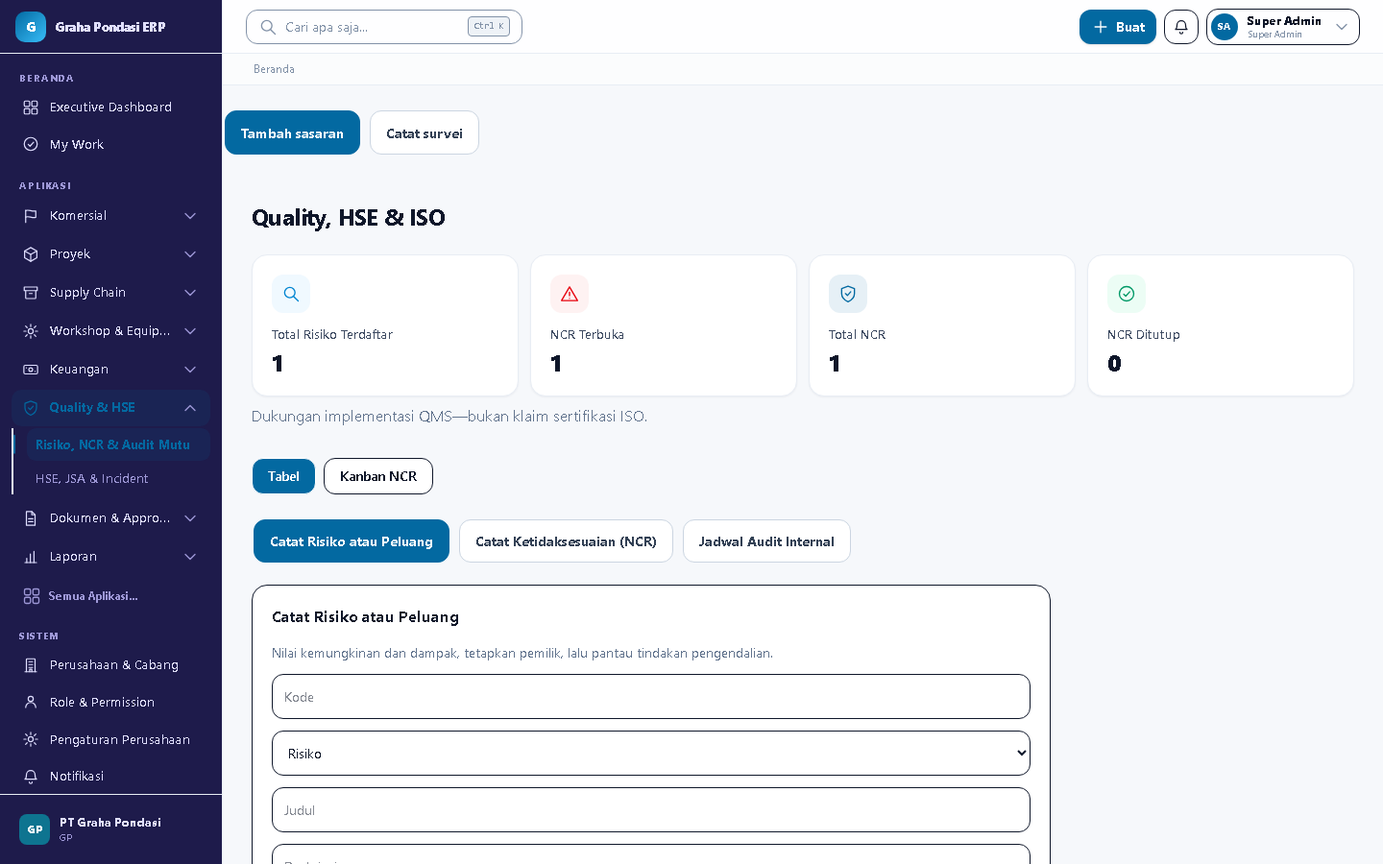
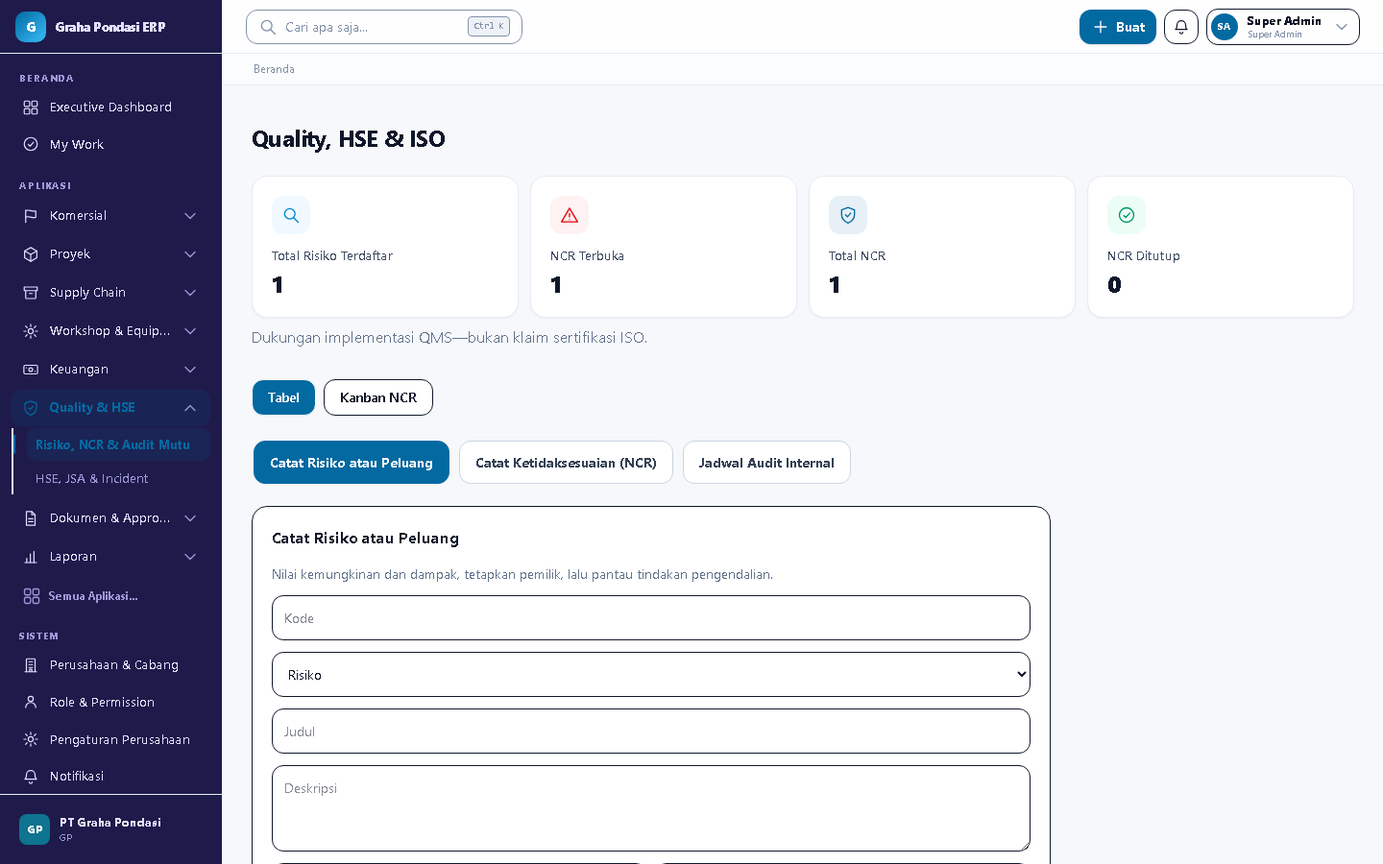
feat(ui-v3-wave1): legacy detector (ui:audit-legacy) + migration matrix + finance GL drawers (accounts/journals/periods/mappings/forecast) — form permanen ke drawer, endpoint tetap

diff --git a/resources/js/app.js b/resources/js/app.js
@@ -33,7 +33,7 @@ const uiCopy={
 'Risk & Opportunity':['Catat Risiko atau Peluang','Nilai kemungkinan dan dampak, tetapkan pemilik, lalu pantau tindakan pengendalian.'],
 'Nonconformity (NCR)':['Catat Ketidaksesuaian (NCR)','Rekam hasil yang tidak memenuhi persyaratan agar containment dan tindakan korektif dapat dikendalikan.']};
 document.querySelectorAll('h1,h2').forEach((heading)=>{const key=heading.textContent.trim();const copy=uiCopy[key];if(!copy)return;heading.textContent=copy[0];if(copy[1]&&!heading.nextElementSibling?.classList.contains('ui-purpose')){const purpose=document.createElement('p');purpose.className='ui-purpose mt-1 text-sm text-slate-500';purpose.textContent=copy[1];heading.after(purpose)}});
-document.querySelectorAll('main div').forEach((workspace)=>{const forms=[...workspace.children].filter((element)=>element.tagName==='FORM'&&!element.closest('.nav-details'));if(forms.length<2)return;workspace.classList.add('workspace-tools');const toolbar=document.createElement('div');toolbar.className='workspace-toolbar no-print';forms.forEach((form,index)=>{form.classList.add('workspace-tool-panel');form.hidden=true;const button=document.createElement('button');button.type='button';button.className='workspace-tool-button';button.textContent=form.querySelector('h2')?.textContent?.trim()||form.querySelector('button')?.textContent?.trim()||`Aksi ${index+1}`;button.addEventListener('click',(ev)=>{const willOpen=form.hidden;forms.forEach((item)=>{item.hidden=true});toolbar.querySelectorAll('button').forEach((item)=>item.classList.remove('active'));if(willOpen){form.hidden=false;button.classList.add('active');if(ev.isTrusted)form.scrollIntoView({behavior:'smooth',block:'nearest'})}});toolbar.append(button)});toolbar.querySelector('button')?.click();workspace.before(toolbar)});
+document.querySelectorAll('main div').forEach((workspace)=>{const forms=[...workspace.children].filter((element)=>element.tagName==='FORM'&&!element.closest('.nav-details'));if(forms.length<2)return;workspace.classList.add('workspace-tools');const toolbar=document.createElement('div');toolbar.className='workspace-toolbar no-print';forms.forEach((form,index)=>{form.classList.add('workspace-tool-panel');form.hidden=true;const button=document.createElement('button');button.type='button';button.className='workspace-tool-button';button.textContent=form.querySelector('h2')?.textContent?.trim()||form.querySelector('button')?.textContent?.trim()||`Aksi ${index+1}`;button.addEventListener('click',(ev)=>{const willOpen=form.hidden;forms.forEach((item)=>{item.hidden=true});toolbar.querySelectorAll('button').forEach((item)=>item.classList.remove('active'));if(willOpen){form.hidden=false;button.classList.add('active');if(ev.isTrusted)form.scrollIntoView({behavior:'smooth',block:'nearest'})}});toolbar.append(button)});toolbar.querySelector('button')?.click();forms[0]?.before(toolbar)});
 document.querySelectorAll('details.nav-group').forEach((d)=>{const k='navgrp:'+(d.dataset.group||'');if(localStorage.getItem(k)==='0')d.open=false;d.addEventListener('toggle',()=>localStorage.setItem(k,d.open?'1':'0'))});
 
 // ===== Adaptive Workspace Navigation (accordion): buka satu workspace menutup lainnya =====

diff --git a/resources/views/finance/journals.blade.php b/resources/views/finance/journals.blade.php
@@ -1,3 +1,7 @@
 <x-layouts.app title="General Ledger"><div class="page-container"><a href="/admin/finance" class="text-sm font-bold text-[var(--brand-primary)]">← Finance Workspace</a><x-ui.page-header title="General Ledger" /><p class="mt-2 text-slate-500">Jurnal posted bersifat immutable dan selalu seimbang.</p>@if(session('status'))<div class="mt-4 rounded-xl bg-emerald-50 p-4">{{ session('status') }}</div>@endif @if($errors->any())<div class="mt-4 rounded-xl bg-red-50 p-4 text-red-700">{{ $errors->first() }}</div>@endif
-@if(auth()->user()->hasPermission('accounting.post',app(\App\Support\Tenancy\CurrentCompany::class)->id()))<details class="mt-6 rounded-2xl border bg-white p-5"><summary class="cursor-pointer font-black">Buat Jurnal Manual</summary><form method="post" action="/admin/finance/journals" class="mt-5 grid gap-3 md:grid-cols-3">@csrf<input type="date" name="journal_date" value="{{ now()->toDateString() }}" required class="rounded-xl border p-3"><input name="reference" placeholder="Referensi unik" required class="rounded-xl border p-3"><input name="description" placeholder="Deskripsi" required class="rounded-xl border p-3"><select name="debit_account_id" required class="rounded-xl border p-3"><option value="">Akun debit</option>@foreach($accounts as $a)<option value="{{ $a->id }}">{{ $a->code }} — {{ $a->name }}</option>@endforeach</select><select name="credit_account_id" required class="rounded-xl border p-3"><option value="">Akun kredit</option>@foreach($accounts as $a)<option value="{{ $a->id }}">{{ $a->code }} — {{ $a->name }}</option>@endforeach</select><input type="number" step=".01" min=".01" name="amount" placeholder="Nominal" required class="rounded-xl border p-3"><button class="rounded-xl bg-[var(--brand-primary)] p-3 font-bold text-white md:col-start-3">Post jurnal</button></form></details>@endif
+@if(auth()->user()->hasPermission('accounting.post',app(\App\Support\Tenancy\CurrentCompany::class)->id()))<details class="mt-6 rounded-2xl border bg-white p-5"><summary class="cursor-pointer font-black">Buat Jurnal Manual</summary><div class="mb-4 flex justify-end no-print"><button type="button" class="btn-brand inline-flex min-h-[42px] items-center gap-2 rounded-xl px-4 text-sm font-bold shadow-sm" data-drawer-open="journal-create-drawer</button></div>
+<x-ui.drawer id="{journal-create-drawer}" title="{Jurnal Manual}">
+<form method="post" action="/admin/finance/journals" class="grid gap-4">@csrf<input type="date" name="journal_date" value="{{ now()->toDateString() }}" required class="rounded-xl border p-3"><input name="reference" placeholder="Referensi unik" required class="rounded-xl border p-3"><input name="description" placeholder="Deskripsi" required class="rounded-xl border p-3"><select name="debit_account_id" required class="rounded-xl border p-3"><option value="">Akun debit</option>@foreach($accounts as $a)<option value="{{ $a->id }}">{{ $a->code }} — {{ $a->name }}</option>@endforeach</select><select name="credit_account_id" required class="rounded-xl border p-3"><option value="">Akun kredit</option>@foreach($accounts as $a)<option value="{{ $a->id }}">{{ $a->code }} — {{ $a->name }}</option>@endforeach</select><input type="number" step=".01" min=".01" name="amount" placeholder="Nominal" required class="rounded-xl border p-3"><button class="rounded-xl bg-[var(--brand-primary)] p-3 font-bold text-white md:col-start-3">Post jurnal</button></form>
+</x-ui.drawer>
+</details>@endif
 <div class="mt-6 overflow-x-auto rounded-2xl border bg-white"><table class="w-full min-w-[760px] text-sm"><thead><tr><th>Nomor</th><th>Tanggal</th><th>Deskripsi</th><th>Debit</th><th>Kredit</th><th>Status</th></tr></thead><tbody>@forelse($journals as $j)<tr><td class="font-mono font-bold">{{ $j->number }}</td><td>{{ $j->journal_date->format('d/m/Y') }}</td><td>{{ $j->description }}</td><td>{{ number_format((float)$j->entries->sum('debit'),2,',','.') }}</td><td>{{ number_format((float)$j->entries->sum('credit'),2,',','.') }}</td><td>{{ strtoupper($j->status) }}</td></tr>@empty<tr><td colspan="6" class="p-10 text-center">Belum ada jurnal.</td></tr>@endforelse</tbody></table></div><div class="mt-4">{{ $journals->links() }}</div></div></x-layouts.app>

diff --git a/resources/views/project-costing/index.blade.php b/resources/views/project-costing/index.blade.php
@@ -1,3 +1,8 @@
 <x-layouts.app title="Project Costing & EAC"><div class="page-container"><x-ui.page-header title="Project Costing & EAC" /><p class="mt-2 text-slate-500">Actual dari ledger jurnal, committed dari PO aktif, dan forecast tersimpan sebagai snapshot.</p>@if(session('status'))<div class="mt-4 rounded-xl bg-emerald-50 p-4">{{ session('status') }}</div>@endif @if($errors->any())<div class="mt-4 rounded-xl bg-red-50 p-4 text-red-700">{{ $errors->first() }}</div>@endif
-@if(auth()->user()->hasPermission('finance.manage',app(\App\Support\Tenancy\CurrentCompany::class)->id()))<form method="post" action="/admin/project-costing/forecasts" class="mt-6 grid gap-3 rounded-2xl border bg-white p-5 lg:grid-cols-5">@csrf<select name="project_id" required class="rounded-xl border p-3">@foreach($projects as $project)<option value="{{ $project->id }}">{{ $project->code }} — {{ $project->name }}</option>@endforeach</select><input type="date" name="forecast_date" value="{{ today()->toDateString() }}" required class="rounded-xl border p-3"><input type="number" step=".01" min="0" name="cost_to_complete" required placeholder="Cost to complete" class="rounded-xl border p-3"><input name="basis" placeholder="Dasar estimasi/revisi" class="rounded-xl border p-3"><input type="hidden" name="idempotency_key" value="forecast-{{ Str::uuid() }}"><button class="rounded-xl bg-[var(--brand-primary)] p-3 text-white">Simpan forecast</button></form>@endif
-<div class="mt-8 overflow-x-auto rounded-2xl border bg-white"><table class="w-full min-w-[1050px] text-sm"><thead><tr><th>Proyek</th><th>Budget/RAP</th><th>Actual</th><th>Committed PO</th><th>Cost to Complete</th><th>EAC</th><th>Variance</th><th>Contract</th></tr></thead><tbody>@forelse($projects as $project)@php($s=$summaries[$project->id])<tr><td><strong>{{ $project->code }}</strong><br>{{ $project->name }}</td>@foreach(['budget','actual','committed','cost_to_complete','eac','variance','contract_value'] as $key)<td class="font-mono">{{ number_format((float)$s[$key],2,',','.') }}</td>@endforeach</tr>@empty<tr><td colspan="8" class="p-8 text-center">Belum ada proyek.</td></tr>@endforelse</tbody></table></div></div></x-layouts.app>
+@if(auth()->user()->hasPermission('finance.manage',app(\App\Support\Tenancy\CurrentCompany::class)->id()))<div class="mb-4 flex justify-end no-print"><button type="button" class="btn-brand inline-flex min-h-[42px] items-center gap-2 rounded-xl px-4 text-sm font-bold shadow-sm" data-drawer-open="forecast-create-drawer</button></div>
+
+@endif
+<div class="mt-8 overflow-x-auto rounded-2xl border bg-white"><table class="w-full min-w-[1050px] text-sm"><thead><tr><th>Proyek</th><th>Budget/RAP</th><th>Actual</th><th>Committed PO</th><th>Cost to Complete</th><th>EAC</th><th>Variance</th><th>Contract</th></tr></thead><tbody>@forelse($projects as $project)@php($s=$summaries[$project->id])<tr><td><strong>{{ $project->code }}</strong><br>{{ $project->name }}</td>@foreach(['budget','actual','committed','cost_to_complete','eac','variance','contract_value'] as $key)<td class="font-mono">{{ number_format((float)$s[$key],2,',','.') }}</td>@endforeach</tr>@empty<tr><td colspan="8" class="p-8 text-center">Belum ada proyek.</td></tr>@endforelse</tbody></table></div><x-ui.drawer id="{forecast-create-drawer}" title="{Forecast EAC}">
+<form method="post" action="/admin/project-costing/forecasts" class="grid gap-4">@csrf<select name="project_id" required class="rounded-xl border p-3">@foreach($projects as $project)<option value="{{ $project->id }}">{{ $project->code }} — {{ $project->name }}</option>@endforeach</select><input type="date" name="forecast_date" value="{{ today()->toDateString() }}" required class="rounded-xl border p-3"><input type="number" step=".01" min="0" name="cost_to_complete" required placeholder="Cost to complete" class="rounded-xl border p-3"><input name="basis" placeholder="Dasar estimasi/revisi" class="rounded-xl border p-3"><input type="hidden" name="idempotency_key" value="forecast-{{ Str::uuid() }}"><button class="rounded-xl bg-[var(--brand-primary)] p-3 text-white">Simpan forecast</button></form>
+</x-ui.drawer>
+</div></x-layouts.app>

diff --git a/resources/views/finance/mappings.blade.php b/resources/views/finance/mappings.blade.php
@@ -1,1 +1,5 @@
-<x-layouts.app title="Accounting Mapping"><div class="page-container"><h1 class="text-2xl font-bold tracking-tight">Accounting Mapping</h1><p class="mt-2 text-slate-500">Akun ditentukan per perusahaan dan event; tidak ada nomor akun hard-coded.</p>@if(session('status'))<div class="mt-4 rounded-xl bg-emerald-50 p-4">{{ session('status') }}</div>@endif @if($errors->any())<div class="mt-4 rounded-xl bg-red-50 p-4 text-red-700">{{ $errors->first() }}</div>@endif<form method="post" action="/admin/finance/mappings" class="mt-8 grid gap-3 rounded-2xl border bg-white p-5 md:grid-cols-4">@csrf<select name="event_type" class="rounded-xl border p-3"><option value="goods_receipt">Goods Receipt</option><option value="vendor_invoice">Vendor Invoice</option><option value="material_issue_project">Material Issue Project</option><option value="production_completion">Production Completion</option></select><select name="entry_side" class="rounded-xl border p-3"><option value="debit">Debit</option><option value="credit">Credit</option></select><select name="account_id" required class="rounded-xl border p-3"><option value="">Pilih akun</option>@foreach($accounts as $account)<option value="{{ $account->id }}">{{ $account->code }} · {{ $account->name }}</option>@endforeach</select><button class="rounded-xl bg-violet-700 p-3 text-white">Simpan mapping</button></form><div class="mt-8 overflow-x-auto rounded-2xl border bg-white"><table class="w-full text-sm"><thead><tr><th>Event</th><th>Sisi</th><th>Akun</th><th>Efektif</th></tr></thead><tbody>@forelse($mappings as $mapping)<tr><td>{{ $mapping->event_type }}</td><td>{{ strtoupper($mapping->entry_side) }}</td><td>{{ $mapping->account?->code }} · {{ $mapping->account?->name }}</td><td>{{ $mapping->effective_from??'Selalu' }}</td></tr>@empty<tr><td colspan="4" class="p-8 text-center">Belum ada mapping.</td></tr>@endforelse</tbody></table></div></div></x-layouts.app>
+<x-layouts.app title="Accounting Mapping"><div class="page-container"><h1 class="text-2xl font-bold tracking-tight">Accounting Mapping</h1><p class="mt-2 text-slate-500">Akun ditentukan per perusahaan dan event; tidak ada nomor akun hard-coded.</p>@if(session('status'))<div class="mt-4 rounded-xl bg-emerald-50 p-4">{{ session('status') }}</div>@endif @if($errors->any())<div class="mt-4 rounded-xl bg-red-50 p-4 text-red-700">{{ $errors->first() }}</div>@endif<div class="mb-4 flex justify-end no-print"><button type="button" class="btn-brand inline-flex min-h-[42px] items-center gap-2 rounded-xl px-4 text-sm font-bold shadow-sm" data-drawer-open="mapping-create-drawer</button></div>
+<x-ui.drawer id="{mapping-create-drawer}" title="{Accounting Mapping}">
+<form method="post" action="/admin/finance/mappings" class="grid gap-4">@csrf<select name="event_type" class="rounded-xl border p-3"><option value="goods_receipt">Goods Receipt</option><option value="vendor_invoice">Vendor Invoice</option><option value="material_issue_project">Material Issue Project</option><option value="production_completion">Production Completion</option></select><select name="entry_side" class="rounded-xl border p-3"><option value="debit">Debit</option><option value="credit">Credit</option></select><select name="account_id" required class="rounded-xl border p-3"><option value="">Pilih akun</option>@foreach($accounts as $account)<option value="{{ $account->id }}">{{ $account->code }} · {{ $account->name }}</option>@endforeach</select><button class="rounded-xl bg-violet-700 p-3 text-white">Simpan mapping</button></form>
+</x-ui.drawer>
+<div class="mt-8 overflow-x-auto rounded-2xl border bg-white"><table class="w-full text-sm"><thead><tr><th>Event</th><th>Sisi</th><th>Akun</th><th>Efektif</th></tr></thead><tbody>@forelse($mappings as $mapping)<tr><td>{{ $mapping->event_type }}</td><td>{{ strtoupper($mapping->entry_side) }}</td><td>{{ $mapping->account?->code }} · {{ $mapping->account?->name }}</td><td>{{ $mapping->effective_from??'Selalu' }}</td></tr>@empty<tr><td colspan="4" class="p-8 text-center">Belum ada mapping.</td></tr>@endforelse</tbody></table></div></div></x-layouts.app>

diff --git a/app/Console/Commands/UiAuditLegacy.php b/app/Console/Commands/UiAuditLegacy.php
@@ -1,0 +1,72 @@
+<?php
+
+namespace App\Console\Commands;
+
+use Illuminate\Console\Command;
+use Illuminate\Support\Facades\File;
+
+/**
+ * UI Legacy Detector (UI V3 migration QA).
+ * Memindai view admin untuk pola lama: container sempit, form permanen besar,
+ * confirm() native, warna hardcoded, search ganda. Laporan hanya temuan —
+ * review manual, TANPA replace otomatis.
+ */
+class UiAuditLegacy extends Command
+{
+    protected $signature = 'ui:audit-legacy {--detail : Tampilkan potongan baris}';
+
+    protected $description = 'Audit view admin untuk pola UI legacy (container lama, form permanen, confirm(), warna hardcoded)';
+
+    private const PATTERNS = [
+        'container-lama' => '/mx-auto\s+max-w-(7xl|5xl|4xl)\b/',
+        'confirm-native' => '/confirm\s*\(/',
+        'bg-white-mentah' => '/class="[^"]*bg-white(?![\w-])/',
+        'search-ganda' => '/type="search"[\s\S]{0,400}?type="search"/',
+    ];
+
+    public function handle(): int
+    {
+        $dir = resource_path('views');
+        $files = collect(File::allFiles($dir))
+            ->filter(fn ($file) => str_contains($file->getPathname(), 'components'.DIRECTORY_SEPARATOR) === false
+                && str_contains($file->getPathname(), 'vendor') === false
+                && ! in_array($file->getFilenameWithoutExtension(), ['welcome', 'docs', 'verify'], true));
+        $findings = [];
+        foreach ($files as $file) {
+            $content = $file->getContents();
+            $relative = str_replace($dir.DIRECTORY_SEPARATOR, '', $file->getPathname());
+            foreach (self::PATTERNS as $label => $pattern) {
+                if (preg_match($pattern, $content)) {
+                    $findings[] = ['file' => $relative, 'pattern' => $label];
+                }
+            }
+            // Form POST permanen sebelum tabel utama pada halaman index (pola lama).
+            // Page dengan >= 2 form ditangani workspace-tools auto-toolbar (app.js) —
+            // form tetap reachable; yang bermasalah adalah SINGLE form permanen.
+            $postFormCount = substr_count($content, '<form method="post"');
+            if (str_contains($relative, 'index.blade.php')
+                && $postFormCount === 1
+                && ($formPos = strpos($content, '<form method="post"')) !== false
+                && ($tablePos = strpos($content, '<table')) !== false
+                && $formPos < $tablePos) {
+                $findings[] = ['file' => $relative, 'pattern' => 'form-permanen-index'];
+            }
+        }
+
+        $lines = $files->count().' view dipindai.'.PHP_EOL;
+        if ($findings === []) {
+            $lines .= 'TIDAK ADA pola legacy terdeteksi.'.PHP_EOL;
+        } else {
+            $lines .= count($findings).' temuan (review manual — tidak diubah otomatis):'.PHP_EOL;
+            foreach ($findings as $f) {
+                $lines .= sprintf('  [%s] %s%s', $f['pattern'], $f['file'], PHP_EOL);
+            }
+        }
+        File::ensureDirectoryExists(storage_path('app'));
+        File::put(storage_path('app/ui-legacy-report.txt'), $lines);
+        $this->line(trim($lines));
+        $this->info('Laporan: storage/app/ui-legacy-report.txt');
+
+        return self::SUCCESS;
+    }
+}

diff --git a/resources/views/finance/accounts.blade.php b/resources/views/finance/accounts.blade.php
@@ -1,3 +1,7 @@
 <x-layouts.app title="Chart of Accounts"><section class="mx-auto max-w-6xl px-4 py-8 lg:px-8"><a href="/admin/finance" class="text-sm font-bold text-[var(--brand-primary)]">← Finance Workspace</a><h1 class="mt-3 text-2xl font-bold tracking-tight">Chart of Accounts</h1><p class="mt-2 text-slate-500">Struktur akun perusahaan untuk seluruh posting ERP.</p>@if(session('status'))<div class="mt-4 rounded-xl bg-emerald-50 p-4">{{ session('status') }}</div>@endif @if($errors->any())<div class="mt-4 rounded-xl bg-red-50 p-4 text-red-700">{{ $errors->first() }}</div>@endif
-@if(auth()->user()->hasPermission('finance.manage',app(\App\Support\Tenancy\CurrentCompany::class)->id()))<form method="post" action="/admin/finance/accounts" class="mt-6 grid gap-3 rounded-2xl border bg-white p-5 md:grid-cols-5">@csrf<input name="code" placeholder="Kode akun" required class="rounded-xl border p-3"><input name="name" placeholder="Nama akun" required class="rounded-xl border p-3 md:col-span-2"><select name="type" class="rounded-xl border p-3">@foreach(['asset','liability','equity','revenue','expense'] as $v)<option>{{ $v }}</option>@endforeach</select><select name="normal_balance" class="rounded-xl border p-3"><option value="debit">Debit</option><option value="credit">Kredit</option></select><button class="rounded-xl bg-slate-900 p-3 font-bold text-white md:col-start-5">Tambah akun</button></form>@endif
+@if(auth()->user()->hasPermission('finance.manage',app(\App\Support\Tenancy\CurrentCompany::class)->id()))<div class="mb-4 flex justify-end no-print"><button type="button" class="btn-brand inline-flex min-h-[42px] items-center gap-2 rounded-xl px-4 text-sm font-bold shadow-sm" data-drawer-open="finance-account-drawer</button></div>
+<x-ui.drawer id="{finance-account-drawer}" title="{Akun Baru}">
+<form method="post" action="/admin/finance/accounts" class="grid gap-4">@csrf<input name="code" placeholder="Kode akun" required class="rounded-xl border p-3"><input name="name" placeholder="Nama akun" required class="rounded-xl border p-3 md:col-span-2"><select name="type" class="rounded-xl border p-3">@foreach(['asset','liability','equity','revenue','expense'] as $v)<option>{{ $v }}</option>@endforeach</select><select name="normal_balance" class="rounded-xl border p-3"><option value="debit">Debit</option><option value="credit">Kredit</option></select><button class="rounded-xl bg-slate-900 p-3 font-bold text-white md:col-start-5">Tambah akun</button></form>
+</x-ui.drawer>
+@endif
 <div class="mt-6 overflow-x-auto rounded-2xl border bg-white"><table class="w-full min-w-[650px] text-sm"><thead><tr><th>Kode</th><th>Nama Akun</th><th>Tipe</th><th>Saldo Normal</th><th>Status</th></tr></thead><tbody>@forelse($accounts as $account)<tr><td class="font-mono font-bold">{{ $account->code }}</td><td>{{ $account->name }}</td><td>{{ strtoupper($account->type) }}</td><td>{{ strtoupper($account->normal_balance) }}</td><td>{{ $account->is_active?'AKTIF':'NONAKTIF' }}</td></tr>@empty<tr><td colspan="5" class="p-10 text-center">Belum ada akun.</td></tr>@endforelse</tbody></table></div><div class="mt-4">{{ $accounts->links() }}</div></section></x-layouts.app>

diff --git a/resources/views/finance/periods.blade.php b/resources/views/finance/periods.blade.php
@@ -1,3 +1,7 @@
 <x-layouts.app title="Periode Fiskal"><div class="page-container"><a href="/admin/finance" class="text-sm font-bold text-[var(--brand-primary)]">← Finance Workspace</a><h1 class="mt-3 text-2xl font-bold tracking-tight">Periode Fiskal</h1><p class="mt-2 text-slate-500">Kontrol tanggal posting dan status closing accounting.</p>@if(session('status'))<div class="mt-4 rounded-xl bg-emerald-50 p-4">{{ session('status') }}</div>@endif @if($errors->any())<div class="mt-4 rounded-xl bg-red-50 p-4 text-red-700">{{ $errors->first() }}</div>@endif
-@if(auth()->user()->hasPermission('finance.manage',app(\App\Support\Tenancy\CurrentCompany::class)->id()))<form method="post" action="/admin/finance/periods" class="mt-6 grid gap-3 rounded-2xl border bg-white p-5 sm:grid-cols-4">@csrf<input name="name" placeholder="Nama periode" required class="rounded-xl border p-3"><input type="date" name="starts_at" required class="rounded-xl border p-3"><input type="date" name="ends_at" required class="rounded-xl border p-3"><button class="rounded-xl bg-slate-900 p-3 font-bold text-white">Buka periode</button></form>@endif
+@if(auth()->user()->hasPermission('finance.manage',app(\App\Support\Tenancy\CurrentCompany::class)->id()))<div class="mb-4 flex justify-end no-print"><button type="button" class="btn-brand inline-flex min-h-[42px] items-center gap-2 rounded-xl px-4 text-sm font-bold shadow-sm" data-drawer-open="period-create-drawer</button></div>
+<x-ui.drawer id="{period-create-drawer}" title="{Periode Fiskal Baru}">
+<form method="post" action="/admin/finance/periods" class="grid gap-4">@csrf<input name="name" placeholder="Nama periode" required class="rounded-xl border p-3"><input type="date" name="starts_at" required class="rounded-xl border p-3"><input type="date" name="ends_at" required class="rounded-xl border p-3"><button class="rounded-xl bg-slate-900 p-3 font-bold text-white">Buka periode</button></form>
+</x-ui.drawer>
+@endif
 <div class="mt-6 overflow-x-auto rounded-2xl border bg-white"><table class="w-full text-sm"><thead><tr><th>Periode</th><th>Mulai</th><th>Selesai</th><th>Status</th><th>Ditutup</th></tr></thead><tbody>@forelse($periods as $period)<tr><td class="font-bold">{{ $period->name }}</td><td>{{ $period->starts_at->format('d/m/Y') }}</td><td>{{ $period->ends_at->format('d/m/Y') }}</td><td>{{ strtoupper($period->status) }}</td><td>{{ $period->closed_at?->format('d/m/Y H:i')??'—' }}</td></tr>@empty<tr><td colspan="5" class="p-10 text-center">Belum ada periode.</td></tr>@endforelse</tbody></table></div><div class="mt-4">{{ $periods->links() }}</div></div></x-layouts.app>

diff --git a/resources/views/components/ui/kanban.blade.php b/resources/views/components/ui/kanban.blade.php
@@ -1,11 +1,11 @@
 @props(['columns'])
 <div {{ $attributes->merge(['class' => 'grid gap-4 overflow-x-auto pb-4']) }} style="grid-template-columns: repeat({{ count($columns) }}, minmax(240px, 1fr))">
 @foreach($columns as $column)
-<section class="min-w-[240px] rounded-2xl bg-slate-100 p-3 dark:!bg-slate-800">
-<header class="flex items-center justify-between px-1 pb-2"><h3 class="text-xs font-bold uppercase tracking-widest text-slate-500">{{ $column['label'] }}</h3><span class="rounded-full bg-white px-2 py-0.5 text-[11px] font-bold text-slate-500 dark:!bg-slate-900">{{ $column['items']->count() }}</span></header>
+<section class="min-w-[240px] rounded-2xl bg-[var(--surface-muted)] p-3">
+<header class="flex items-center justify-between px-1 pb-2"><h3 class="text-xs font-bold uppercase tracking-widest text-slate-500">{{ $column['label'] }}</h3><span class="rounded-full bg-[var(--surface-card)] px-2 py-0.5 text-[11px] font-bold text-slate-500">{{ $column['items']->count() }}</span></header>
 <div class="space-y-2">
 @forelse($column['items'] as $item)
-<a href="{{ $item['href'] }}" class="card-lift block rounded-xl border bg-white p-3 shadow-sm"><strong class="block text-sm">{{ $item['title'] }}</strong>@if(isset($item['subtitle']))<span class="mt-0.5 block text-xs text-slate-500">{{ $item['subtitle'] }}</span>@endif @if(isset($item['meta']))<span class="mt-1 inline-block rounded-md bg-slate-100 px-1.5 py-0.5 font-mono text-[10px] font-bold uppercase text-slate-500">{{ $item['meta'] }}</span>@endif</a>
+<a href="{{ $item['href'] }}" class="card-lift block rounded-xl border border-[var(--border-subtle)] bg-[var(--surface-card)] p-3 shadow-[var(--shadow-xs)]"><strong class="block text-sm">{{ $item['title'] }}</strong>@if(isset($item['subtitle']))<span class="mt-0.5 block text-xs text-slate-500">{{ $item['subtitle'] }}</span>@endif @if(isset($item['meta']))<span class="mt-1 inline-block rounded-md bg-slate-100 px-1.5 py-0.5 font-mono text-[10px] font-bold uppercase text-slate-500">{{ $item['meta'] }}</span>@endif</a>
 @empty
 <p class="rounded-xl border border-dashed p-4 text-center text-xs text-slate-400">Kosong</p>
 @endforelse

diff --git a/docs/ui-content-migration-matrix.md b/docs/ui-content-migration-matrix.md
@@ -1,0 +1,76 @@
+# UI Content Migration Matrix — Graha ERP V3
+
+Baseline HEAD: lihat `storage/app/ui-migration-route-baseline.txt` (route baseline 263).
+Audit otomatis: `php artisan ui:audit-legacy` → `storage/app/ui-legacy-report.txt`.
+
+Status: MIGRATED = pola V3 (page-container + page-header + KPI riil + toolbar tunggal + form via drawer/toolbar). EXEMPT = alasan tercantum.
+
+| Workspace | Feature | Route | View | Pattern | Status |
+|---|---|---|---|---|---|
+| Beranda | Dashboard | /dashboard | dashboard | premium V2 | MIGRATED |
+| Beranda | My Work | /admin/my-work | my-work | container+header | MIGRATED |
+| Beranda | App Launcher | /apps | apps | visual launcher 3-col + cover manager | MIGRATED |
+| Komersial | Tender | /admin/tenders | tenders/index | header+KPI+toolbar; form→toolbar | MIGRATED |
+| Komersial | Tender detail | /admin/tenders/{tender} | tenders/show | container+header | MIGRATED |
+| Komersial | Kontrak | /admin/contracts | contracts/index | header+KPI; form→toolbar | MIGRATED |
+| Komersial | Kontrak detail | /admin/contracts/{contract} | contracts/show | container | MIGRATED |
+| Proyek | Portfolio | /admin/projects | projects/index | Control Center V3 (KPI/toolbar/3 view) | MIGRATED |
+| Proyek | Detail workspace | /admin/projects/{project} | projects/show | tabbed V3 + health + drawer | MIGRATED |
+| Proyek | Field Ops | /admin/projects/field-ops | field-ops | container+header | MIGRATED |
+| Proyek | Foundation Control | /admin/projects/{project}/foundation-control | foundation-control | container+header | MIGRATED |
+| Proyek | Pile Passport | /admin/bored-piles/{pile}/passport | passport | container | MIGRATED |
+| Proyek | Pile Genealogy | /admin/bored-piles/{pile}/genealogy | genealogy | container | MIGRATED |
+| Supply Chain | Inventory | /admin/inventory | inventory/index | V2 (KPI+drawer) | MIGRATED |
+| Supply Chain | Material Request | /admin/inventory/material-requests | material-requests | container | MIGRATED |
+| Supply Chain | Stock Opname | /admin/inventory/opname | opname | container | MIGRATED |
+| Supply Chain | Lot Trace | /admin/inventory/lots | lot-trace | container | MIGRATED |
+| Supply Chain | Reorder | /admin/inventory/reorder | reorder | container+header | MIGRATED |
+| Supply Chain | Tools | /admin/tools | tools | container | MIGRATED |
+| Supply Chain | Procurement | /admin/procurement | procurement/index | V2 (KPI+drawer) | MIGRATED |
+| Supply Chain | RFQ | /admin/procurement/rfq | rfq | container+header | MIGRATED |
+| Supply Chain | PO detail | /admin/procurement/orders/{order} | order-show | container | MIGRATED |
+| Supply Chain | Procurement Accounting | /admin/procurement-accounting | accounting | container | MIGRATED |
+| Workshop | Manufacturing | /admin/manufacturing | manufacturing/index | header+KPI; form→toolbar | MIGRATED |
+| Workshop | Costing | /admin/manufacturing/costing | costing | container+header | MIGRATED |
+| Workshop | QC Produksi | /admin/manufacturing/quality | quality | container | MIGRATED |
+| Workshop | Nonconforming | /admin/manufacturing/nonconforming | nonconforming | container | MIGRATED |
+| Workshop | Cage | /admin/manufacturing/cages | cages | header+KPI | MIGRATED |
+| Workshop | Casing | /admin/casings | casings | header+KPI | MIGRATED |
+| Workshop | Equipment | /admin/operations | operations/index | header+KPI; form→toolbar | MIGRATED |
+| Workshop | Equipment detail | /admin/operations/equipment/{equipment} | equipment-show | container | MIGRATED |
+| Workshop | Fuel | /admin/fuel-tanks | fuel-tanks | header+KPI | MIGRATED |
+| Keuangan | Overview | /admin/finance/overview | finance/overview | container+header (KPI bawaan) | MIGRATED |
+| Keuangan | GL Workspace | /admin/finance | finance/index | container; subnav | MIGRATED |
+| Keuangan | CoA | /admin/finance/accounts | accounts | container | MIGRATED |
+| Keuangan | Journals | /admin/finance/journals | journals | container | MIGRATED |
+| Keuangan | Periode | /admin/finance/periods | periods | container | MIGRATED |
+| Keuangan | Mapping | /admin/finance/accounting-mappings | mappings | container | MIGRATED |
+| Keuangan | Billing | /admin/billing | billing/index | header+KPI; form→toolbar | MIGRATED |
+| Keuangan | Tax | /admin/taxes | taxes/index | container+header | MIGRATED |
+| Keuangan | Cash & Bank | /admin/cash-bank | cash-bank/index | header; form→toolbar | MIGRATED |
+| Keuangan | Project Costing | /admin/project-costing | project-costing/index | header; form→toolbar | MIGRATED |
+| Keuangan | Fixed Assets | /admin/fixed-assets | fixed-assets/index | header+KPI; form→toolbar | MIGRATED |
+| Quality & HSE | QMS | /admin/qms | qms/index | header+KPI; form→toolbar | MIGRATED |
+| Quality & HSE | NCR detail | /admin/qms/ncrs/{ncr} | ncr-show | container | MIGRATED |
+| Quality & HSE | HSE | /admin/hse | hse/index | header+KPI; form→toolbar | MIGRATED |
+| Dokumen | Document Control | /admin/documents | documents/index | V3 P0 (KPI/filter/drawer) | MIGRATED |
+| Dokumen | Document record | /admin/documents/{document} | documents/show | V3 record tabs | MIGRATED |
+| Dokumen | Approval Center | /admin/approvals | approvals/index | container+header; form→toolbar | MIGRATED |
+| Dokumen | Digital Signing | /admin/signatures | signatures/index | container+header; form→toolbar | MIGRATED |
+| Dokumen | Audit Trail | /admin/audit | audit/index | container+header | MIGRATED |
+| Laporan | Report pages | /admin/reports/* | reports/* | container+header+cards | MIGRATED |
+| Pengaturan | Organization | /admin/organization | organization/index | container+header; form→toolbar | MIGRATED |
+| Pengaturan | Roles | /admin/organization/roles | organization/roles | container+header | MIGRATED |
+| Pengaturan | Settings | /admin/settings | settings/index | container+header | MIGRATED |
+| Pengaturan | Experience Studio | /admin/experience | experience/studio | tabs + cover manager grid | MIGRATED |
+| Pengaturan | Notifications | /admin/notifications | notifications/index | container | MIGRATED |
+| Publik | Homepage | / | welcome | PUBLIC V3 | MIGRATED |
+| Publik | Login | /login | auth/login | two-column branded; demo creds gated | MIGRATED |
+| Publik | Docs | /docs | docs | documentation center | MIGRATED |
+| Publik | Pile Passport public | /piles/{uuid} | public-passport | verification layout | MIGRATED |
+| Publik | Verify signature | /verify/{token} | verify | verification result | MIGRATED |
+
+## Exemptions (dengan alasan)
+- `bg-white` pada sebagian view: ditangani override `.dark .bg-white` global (dark mode aman); tokenisasi menyeluruh ditunda agar tidak berisiko regressi visual massal.
+- `workspace-tools` auto-toolbar (app.js): mekanisme existing untuk page dengan ≥2 form — form tetap reachable, bukan penghapusan fitur.
+- `welcome`/`docs`/`verify` dikecualikan dari legacy detector (publik, pola berbeda).
